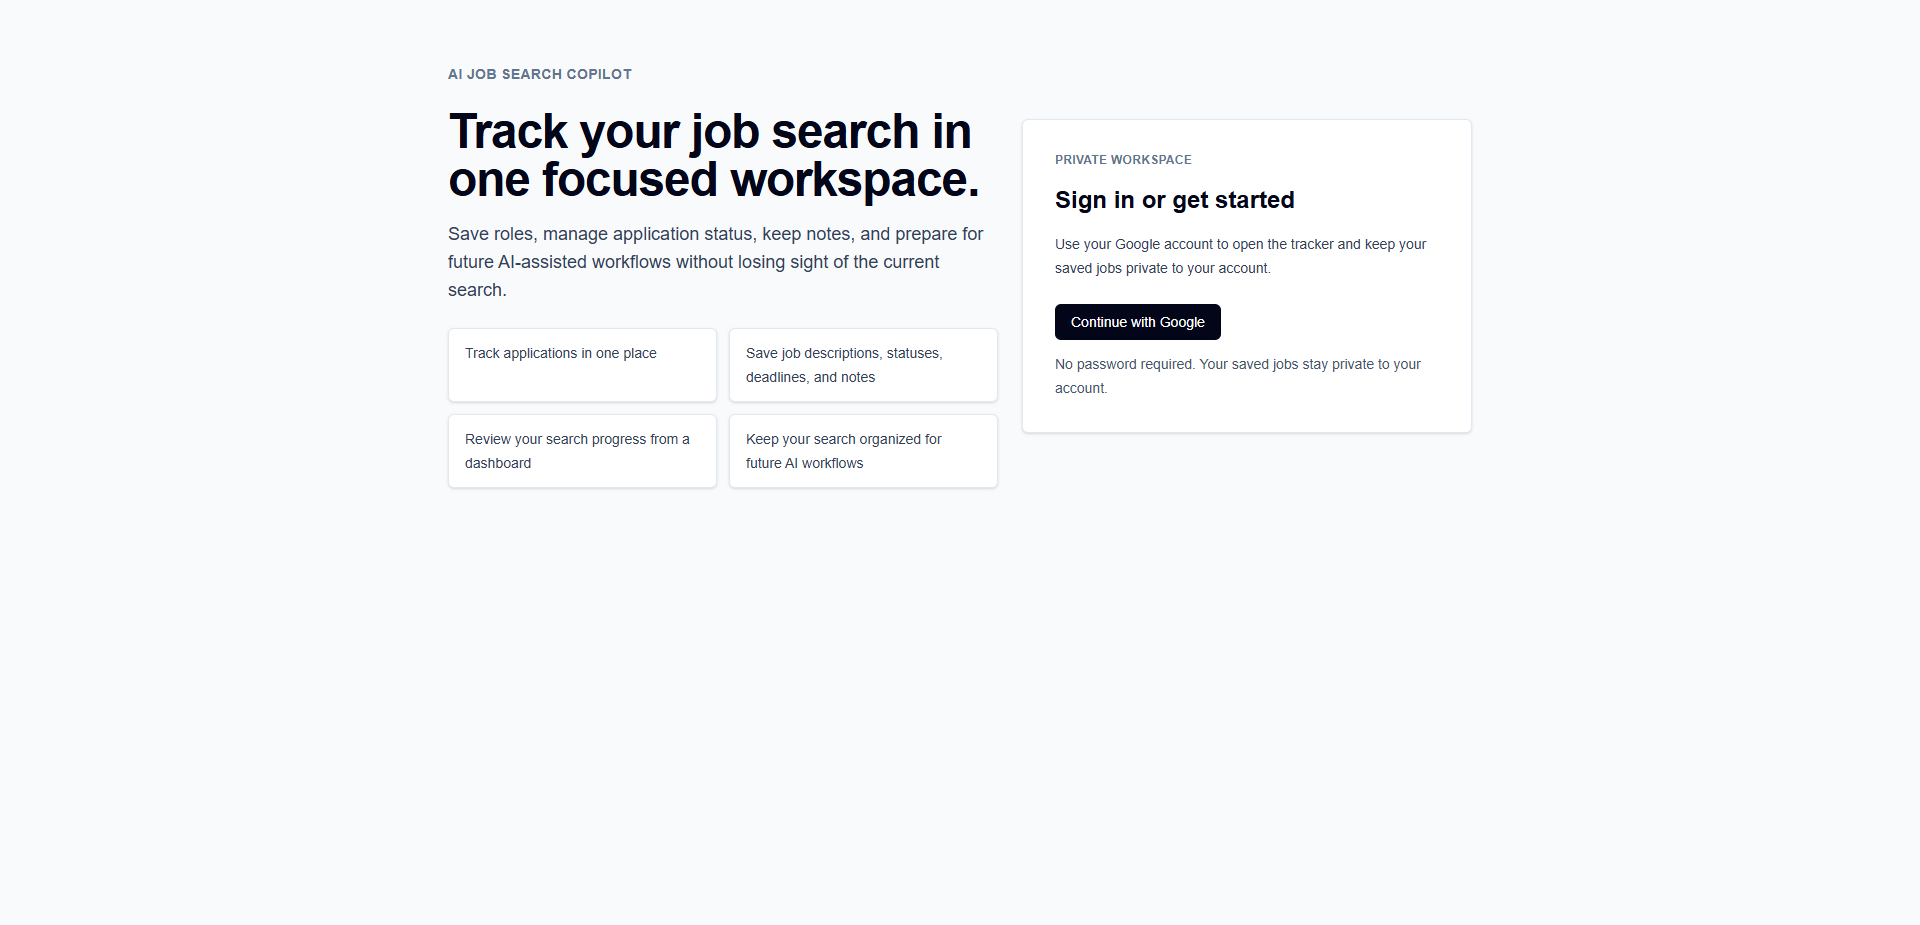
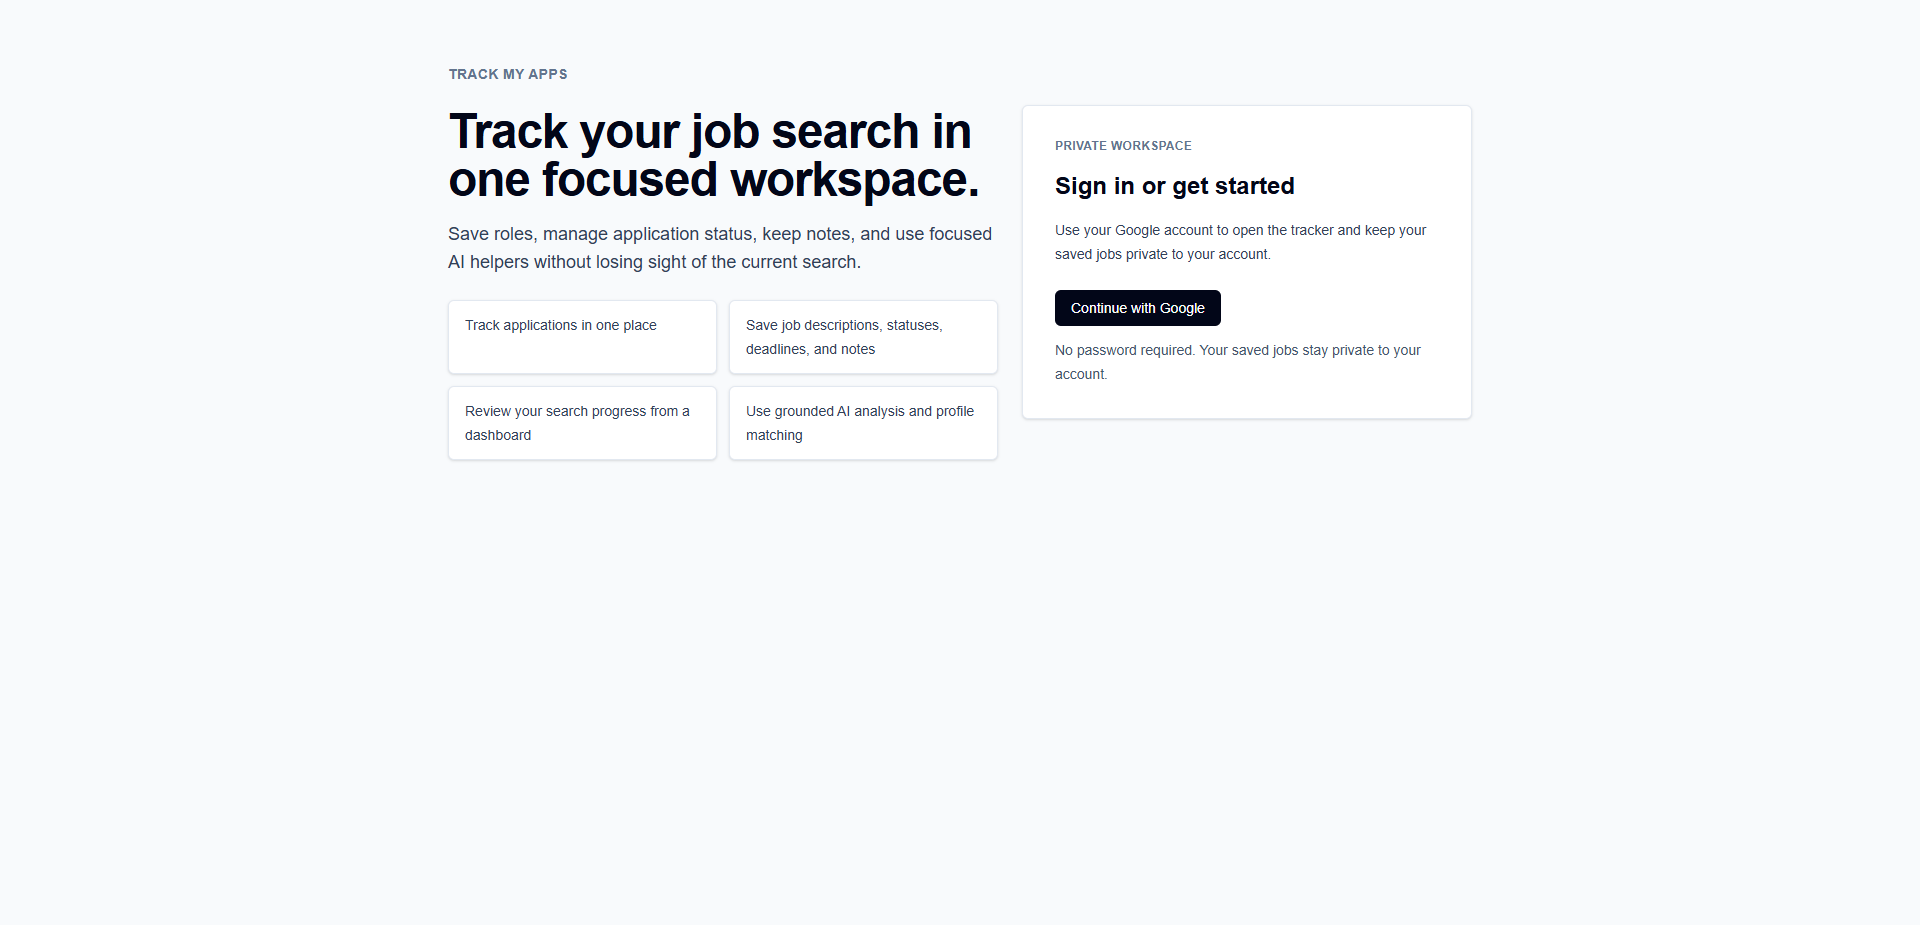
Polish app layout for screenshots

Changed region(s): [[0.2188, 0.1514, 0.75, 0.5146], [0.2188, 0.0605, 0.3438, 0.0908]]

diff --git a/src/app/(dashboard)/jobs/[jobId]/page.tsx b/src/app/(dashboard)/jobs/[jobId]/page.tsx
@@ -102,7 +102,7 @@ export default async function JobDetailPage({ params }: JobDetailPageProps) {
   const safeJobUrl = job.url && isSafeExternalUrl(job.url) ? job.url : null;
 
   return (
-    <div className="mx-auto max-w-6xl space-y-5">
+    <div className="mx-auto max-w-6xl space-y-6">
       <div className="flex flex-col gap-3 sm:flex-row sm:items-center sm:justify-between">
         <Link
           href="/jobs"
@@ -116,7 +116,7 @@ export default async function JobDetailPage({ params }: JobDetailPageProps) {
       </div>
 
       <Card>
-        <div className="grid gap-5 lg:grid-cols-[1fr_18rem]">
+        <div className="grid gap-6 lg:grid-cols-[1fr_18rem]">
           <div>
             <div className="flex flex-wrap items-center gap-2">
               <p className="text-sm font-medium uppercase tracking-wide text-slate-500">
@@ -180,8 +180,8 @@ export default async function JobDetailPage({ params }: JobDetailPageProps) {
         </div>
       </Card>
 
-      <div className="grid gap-5 xl:grid-cols-[1fr_24rem]">
-        <div className="space-y-5">
+      <div className="grid gap-6 xl:grid-cols-[1fr_24rem]">
+        <div className="space-y-6">
           <Card>
             <CardHeader>
               <CardTitle>Description</CardTitle>
@@ -223,7 +223,7 @@ export default async function JobDetailPage({ params }: JobDetailPageProps) {
           </Card>
         </div>
 
-        <div className="space-y-5">
+        <div className="space-y-6">
           <Card>
             <CardHeader>
               <CardTitle>Manage job</CardTitle>
@@ -231,34 +231,31 @@ export default async function JobDetailPage({ params }: JobDetailPageProps) {
                 Archive this role or permanently remove it from your tracker.
               </CardDescription>
             </CardHeader>
-            <JobManagementActions
-              jobId={job.id}
-              isArchived={job.status === "ARCHIVED"}
-            />
-          </Card>
-
-            <Card>
-              <CardHeader>
-                <CardTitle>Analysis</CardTitle>
-                <CardDescription>
-                  Extract a structured summary and key requirements from the
-                  saved job description.
-                </CardDescription>
-              </CardHeader>
-              <JobAnalysisCard
-                analysis={job.analysis}
-                hasAnalyzableDescription={hasAnalyzableJobDescription(job.description)}
-                isDescriptionTooLong={
-                  job.description ? isJobDescriptionTooLong(job.description) : false
-                }
-                descriptionLength={job.description?.length ?? 0}
-                jobId={job.id}
-              />
+            <JobManagementActions jobId={job.id} isArchived={job.status === "ARCHIVED"} />
           </Card>
 
           <Card>
             <CardHeader>
-              <CardTitle>Profile match</CardTitle>
+              <CardTitle>AI analysis</CardTitle>
+              <CardDescription>
+                Extract a structured summary and key requirements from the saved
+                job description.
+              </CardDescription>
+            </CardHeader>
+            <JobAnalysisCard
+              analysis={job.analysis}
+              hasAnalyzableDescription={hasAnalyzableJobDescription(job.description)}
+              isDescriptionTooLong={
+                job.description ? isJobDescriptionTooLong(job.description) : false
+              }
+              descriptionLength={job.description?.length ?? 0}
+              jobId={job.id}
+            />
+          </Card>
+
+          <Card>
+            <CardHeader>
+              <CardTitle>Profile-to-job match</CardTitle>
               <CardDescription>
                 Compare your saved profile against this job&apos;s analysis.
               </CardDescription>

diff --git a/src/app/page.tsx b/src/app/page.tsx
@@ -25,9 +25,9 @@ const featureCards = [
       "Use the dashboard to review recent jobs, status counts, and upcoming dates without digging through the list.",
   },
   {
-    title: "Prepare for future AI workflows",
+    title: "Use grounded AI where it helps",
     description:
-      "The schema is ready for later job analysis, resume matching, and interview prep once the tracker is in place.",
+      "Run manual AI job analysis, profile extraction, and profile-to-job matching tied to your saved data.",
   },
 ];
 
@@ -52,9 +52,9 @@ export default async function HomePage() {
                 place.
               </h1>
               <p className="max-w-2xl text-base leading-7 text-slate-700 sm:text-lg">
-                Save jobs, manage statuses and deadlines, keep notes, and stay
-                organized with a tracker built for a real job search. AI
-                features come later on top of that foundation.
+                Save jobs, manage statuses and deadlines, keep notes, and use
+                grounded AI analysis and matching features tied to your saved
+                data.
               </p>
             </div>
           </div>
@@ -77,12 +77,11 @@ export default async function HomePage() {
               Built for the current search
             </p>
             <h2 className="text-2xl font-semibold text-slate-950">
-              A clean tracker now, AI-ready later
+              A clean tracker with careful AI support
             </h2>
             <p className="text-sm leading-6 text-slate-600">
-              The app focuses on the workflows job seekers use every day, then
-              leaves room for analysis and matching features once the core data
-              is in place.
+              The app keeps the tracker workflow primary, then layers AI on top
+              only where it is grounded in saved jobs and profile data.
             </p>
           </div>
 
@@ -91,7 +90,7 @@ export default async function HomePage() {
               "Google OAuth sign-in",
               "Protected dashboard and jobs",
               "Job detail pages and notes",
-              "Archived jobs stay separate",
+              "AI analysis and profile match",
             ].map((item) => (
               <div
                 key={item}
@@ -117,8 +116,8 @@ export default async function HomePage() {
               Focused workflows for an organized search
             </h2>
             <p className="text-sm leading-6 text-slate-600 sm:text-base">
-              The homepage keeps the scope clear: the tracker is live now, and
-              the AI layer is intentionally still planned.
+              The tracker is live, and the current AI features stay deliberately
+              narrow, manual, and grounded in user-owned data.
             </p>
           </div>
 
@@ -138,11 +137,11 @@ export default async function HomePage() {
           <div className="grid gap-4 md:grid-cols-[1fr_auto] md:items-center">
             <div className="space-y-2">
               <p className="text-sm font-semibold text-slate-950">
-                Planned AI features
+                Planned next layer
               </p>
               <p className="text-sm leading-6 text-slate-600">
-                Job analysis, resume matching, and interview prep are reserved
-                for later milestones. The current product is a tracker first.
+                Deeper resume tailoring, interview prep, and richer automation
+                are still planned. The current product remains tracker-first.
               </p>
             </div>
             <Link

diff --git a/src/features/jobs/components/job-import-preview-table.tsx b/src/features/jobs/components/job-import-preview-table.tsx
@@ -1,4 +1,4 @@
-import type { JobImportPreviewResult } from "@/features/jobs/import-validation";
+import type { JobImportPreviewResult } from "@/features/jobs/import-validation";
 
 type JobImportPreviewTableProps = {
   preview: JobImportPreviewResult;
@@ -26,7 +26,7 @@ export function JobImportPreviewTable({
   preview,
 }: JobImportPreviewTableProps) {
   return (
-    <div className="space-y-4 rounded-md border border-slate-200 bg-white p-4">
+    <div className="space-y-4 rounded-md border border-slate-200 bg-white p-5">
       <div className="space-y-1">
         <h2 className="text-base font-semibold text-slate-950">3. Review preview</h2>
         <p className="text-sm text-slate-600">
@@ -62,7 +62,7 @@ export function JobImportPreviewTable({
       </div>
 
       <div className="overflow-x-auto rounded-md border border-slate-200">
-        <table className="min-w-full divide-y divide-slate-200 text-sm">
+        <table className="min-w-full divide-y divide-slate-200 text-xs sm:text-sm">
           <thead className="bg-slate-50">
             <tr>
               <th className="px-3 py-2 text-left font-medium text-slate-700">Row</th>
@@ -78,10 +78,10 @@ export function JobImportPreviewTable({
               <tr key={row.rowNumber}>
                 <td className="px-3 py-2 align-top text-slate-700">{row.rowNumber}</td>
                 <td className="px-3 py-2 align-top text-slate-700">
-                  {row.fieldValues.company || "—"}
+                  {row.fieldValues.company || "Not provided"}
                 </td>
                 <td className="px-3 py-2 align-top text-slate-700">
-                  {row.fieldValues.title || "—"}
+                  {row.fieldValues.title || "Not provided"}
                 </td>
                 <td className="px-3 py-2 align-top text-slate-700">
                   {row.fieldValues.status || "Saved"}

diff --git a/src/features/job-analysis/components/job-analysis-card.tsx b/src/features/job-analysis/components/job-analysis-card.tsx
@@ -101,7 +101,7 @@ export function JobAnalysisCard({
 
   return (
     <div className="space-y-5">
-      <form action={formAction} className="space-y-3">
+      <form action={formAction} className="space-y-4 rounded-md border border-slate-200 bg-slate-50 p-4">
         <input type="hidden" name="jobId" value={jobId} />
         <div className="space-y-1 text-xs text-slate-600">
           <p>
@@ -113,7 +113,7 @@ export function JobAnalysisCard({
           <p>Analysis may take a few seconds.</p>
         </div>
         {hasAnalyzableDescription ? (
-          <Button type="submit" disabled={isActionDisabled}>
+          <Button type="submit" disabled={isActionDisabled} className="w-full sm:w-auto">
             {isPending ? "Analyzing job description..." : actionLabel}
           </Button>
         ) : (
@@ -154,7 +154,7 @@ export function JobAnalysisCard({
           {analysis.summary ? (
             <div className="space-y-2">
               <h3 className="text-sm font-medium text-slate-950">Summary</h3>
-              <div className="max-h-40 overflow-auto rounded-md border border-slate-200 bg-slate-50 px-3 py-2">
+              <div className="max-h-40 overflow-auto rounded-md border border-slate-200 bg-slate-50 p-3">
                 <p className="text-sm leading-6 text-slate-700">{analysis.summary}</p>
               </div>
             </div>

diff --git a/src/features/job-match/components/job-match-card.tsx b/src/features/job-match/components/job-match-card.tsx
@@ -113,7 +113,7 @@ export function JobMatchCard({
 
   return (
     <div className="space-y-5">
-      <form action={formAction} className="space-y-3">
+      <form action={formAction} className="space-y-4 rounded-md border border-slate-200 bg-slate-50 p-4">
         <input type="hidden" name="jobId" value={jobId} />
         <div className="space-y-1 text-xs text-slate-600">
           <p>
@@ -129,7 +129,7 @@ export function JobMatchCard({
           </p>
         ) : null}
 
-        <Button type="submit" disabled={isPending}>
+        <Button type="submit" disabled={isPending} className="w-full sm:w-auto">
           {isPending ? "Comparing profile..." : "Compare my profile"}
         </Button>
 
@@ -156,7 +156,7 @@ export function JobMatchCard({
 
       {state.report ? (
         <div className="space-y-5">
-          <div className="space-y-3 rounded-md border border-slate-200 bg-white p-4">
+          <div className="space-y-3 rounded-md border border-slate-200 bg-slate-50 p-4">
             <div className="flex flex-col gap-3 sm:flex-row sm:items-center sm:justify-between">
               <div>
                 <h3 className="text-sm font-medium text-slate-950">Match report</h3>

diff --git a/src/features/jobs/components/job-import-workflow.tsx b/src/features/jobs/components/job-import-workflow.tsx
@@ -51,7 +51,7 @@ export function JobImportWorkflow() {
 
           <form
             action={confirmAction}
-            className="space-y-4 rounded-md border border-slate-200 bg-white p-4"
+            className="space-y-4 rounded-md border border-slate-200 bg-white p-5"
           >
             <input type="hidden" name="csvText" value={previewState.csvText} />
             {JOB_IMPORT_FIELDS.map((fieldConfig) => (
@@ -83,7 +83,7 @@ export function JobImportWorkflow() {
               <p className="text-sm text-slate-600">
                 Confirm import to add only valid, non-duplicate rows to your account.
               </p>
-              <Button type="submit" disabled={isConfirmPending}>
+              <Button type="submit" disabled={isConfirmPending} className="w-full sm:w-auto">
                 {isConfirmPending ? "Importing..." : "Confirm import"}
               </Button>
             </div>
@@ -93,4 +93,3 @@ export function JobImportWorkflow() {
     </div>
   );
 }
-

diff --git a/src/components/layout/app-shell.tsx b/src/components/layout/app-shell.tsx
@@ -46,9 +46,9 @@ export function AppShell({ children, user }: AppShellProps) {
             aria-label={isMobileMenuOpen ? "Close navigation menu" : "Open navigation menu"}
             aria-expanded={isMobileMenuOpen}
             aria-controls="mobile-nav-menu"
-            className="inline-flex h-10 w-10 items-center justify-center rounded-md border border-slate-300 text-slate-900 transition hover:bg-slate-100 focus:outline-none focus:ring-2 focus:ring-slate-400 focus:ring-offset-2 md:hidden"
+            className="inline-flex h-10 items-center justify-center rounded-md border border-slate-300 px-3 text-sm font-medium text-slate-900 transition hover:bg-slate-100 focus:outline-none focus:ring-2 focus:ring-slate-400 focus:ring-offset-2 md:hidden"
           >
-            <span className="text-lg leading-none">{isMobileMenuOpen ? "x" : "="}</span>
+            {isMobileMenuOpen ? "Close" : "Menu"}
           </button>
         </div>
       </header>

diff --git a/src/app/(auth)/sign-in/page.tsx b/src/app/(auth)/sign-in/page.tsx
@@ -8,7 +8,7 @@ const highlights = [
   "Track applications in one place",
   "Save job descriptions, statuses, deadlines, and notes",
   "Review your search progress from a dashboard",
-  "Keep your search organized for future AI workflows",
+  "Use grounded AI analysis and profile matching",
 ];
 
 export default async function SignInPage() {
@@ -30,9 +30,8 @@ export default async function SignInPage() {
               Track your job search in one focused workspace.
             </h1>
             <p className="max-w-2xl text-base leading-7 text-slate-700 sm:text-lg">
-              Save roles, manage application status, keep notes, and prepare
-              for future AI-assisted workflows without losing sight of the
-              current search.
+              Save roles, manage application status, keep notes, and use
+              focused AI helpers without losing sight of the current search.
             </p>
           </div>
 

diff --git a/src/app/(dashboard)/profile/page.tsx b/src/app/(dashboard)/profile/page.tsx
@@ -16,11 +16,11 @@ export default async function ProfilePage() {
       <div className="flex flex-col gap-3 sm:flex-row sm:items-start sm:justify-between">
         <div>
           <h1 className="text-2xl font-semibold text-slate-950">Profile</h1>
-          <p className="mt-1 text-sm text-slate-600">
+          <p className="mt-1 max-w-2xl text-sm text-slate-600">
             Keep one private canonical career profile for future resume matching and tailoring.
           </p>
         </div>
-        <div className="rounded-md border border-slate-200 bg-slate-50 px-3 py-2 text-sm text-slate-600">
+        <div className="w-fit rounded-md border border-slate-200 bg-slate-50 px-3 py-2 text-sm text-slate-600">
           {profile
             ? `Last updated ${dateFormatter.format(profile.updatedAt)}`
             : "No profile saved yet"}

diff --git a/src/features/jobs/components/job-import-mapping-form.tsx b/src/features/jobs/components/job-import-mapping-form.tsx
@@ -23,7 +23,7 @@ export function JobImportMappingForm({
   mapping,
 }: JobImportMappingFormProps) {
   return (
-    <form action={action} className="space-y-4 rounded-md border border-slate-200 bg-white p-4">
+    <form action={action} className="space-y-4 rounded-md border border-slate-200 bg-white p-5">
       <div className="space-y-1">
         <h2 className="text-base font-semibold text-slate-950">2. Map columns</h2>
         <p className="text-sm text-slate-600">
@@ -60,10 +60,9 @@ export function JobImportMappingForm({
         ))}
       </div>
 
-      <Button type="submit" variant="secondary" disabled={isPending}>
+      <Button type="submit" variant="secondary" disabled={isPending} className="w-full sm:w-auto">
         {isPending ? "Refreshing preview..." : "Refresh preview"}
       </Button>
     </form>
   );
 }
-

diff --git a/src/features/jobs/components/job-import-upload-form.tsx b/src/features/jobs/components/job-import-upload-form.tsx
@@ -15,7 +15,7 @@ export function JobImportUploadForm({
   state,
 }: JobImportUploadFormProps) {
   return (
-    <form action={action} className="space-y-4 rounded-md border border-slate-200 bg-white p-4">
+    <form action={action} className="space-y-4 rounded-md border border-slate-200 bg-white p-5">
       <div className="space-y-1">
         <h2 className="text-base font-semibold text-slate-950">1. Upload CSV</h2>
         <p className="text-sm text-slate-600">
@@ -42,10 +42,9 @@ export function JobImportUploadForm({
         </div>
       ) : null}
 
-      <Button type="submit" disabled={isPending}>
+      <Button type="submit" disabled={isPending} className="w-full sm:w-auto">
         {isPending ? "Preparing preview..." : "Upload and preview"}
       </Button>
     </form>
   );
 }
-

diff --git a/src/app/(dashboard)/jobs/import/page.tsx b/src/app/(dashboard)/jobs/import/page.tsx
@@ -7,7 +7,7 @@ export default function JobImportPage() {
       <div className="flex flex-col gap-3 sm:flex-row sm:items-start sm:justify-between">
         <div>
           <h1 className="text-2xl font-semibold text-slate-950">Import jobs</h1>
-          <p className="mt-1 text-sm text-slate-600">
+          <p className="mt-1 max-w-3xl text-sm text-slate-600">
             Upload a CSV tracker, map its columns, review validation results, and confirm the import into your account.
           </p>
         </div>
@@ -20,4 +20,3 @@ export default function JobImportPage() {
     </div>
   );
 }
-
